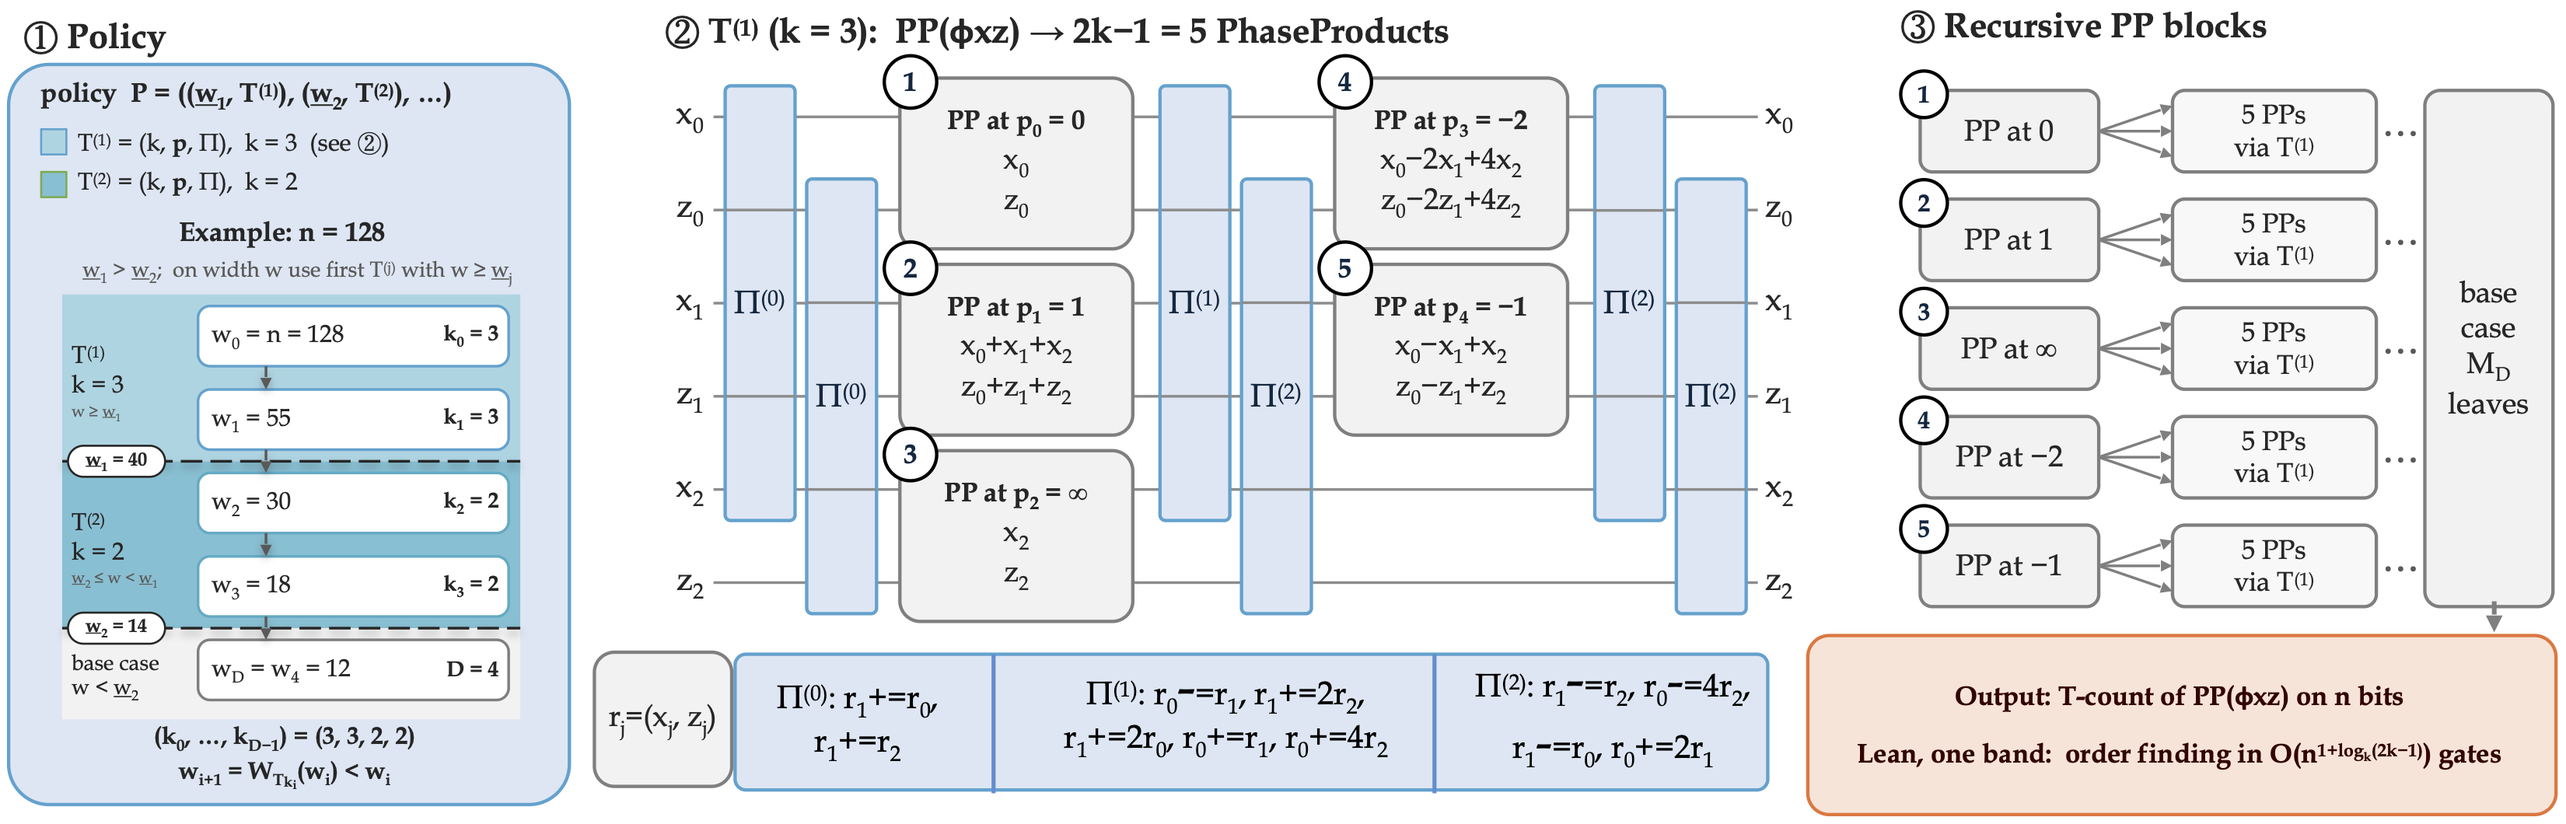
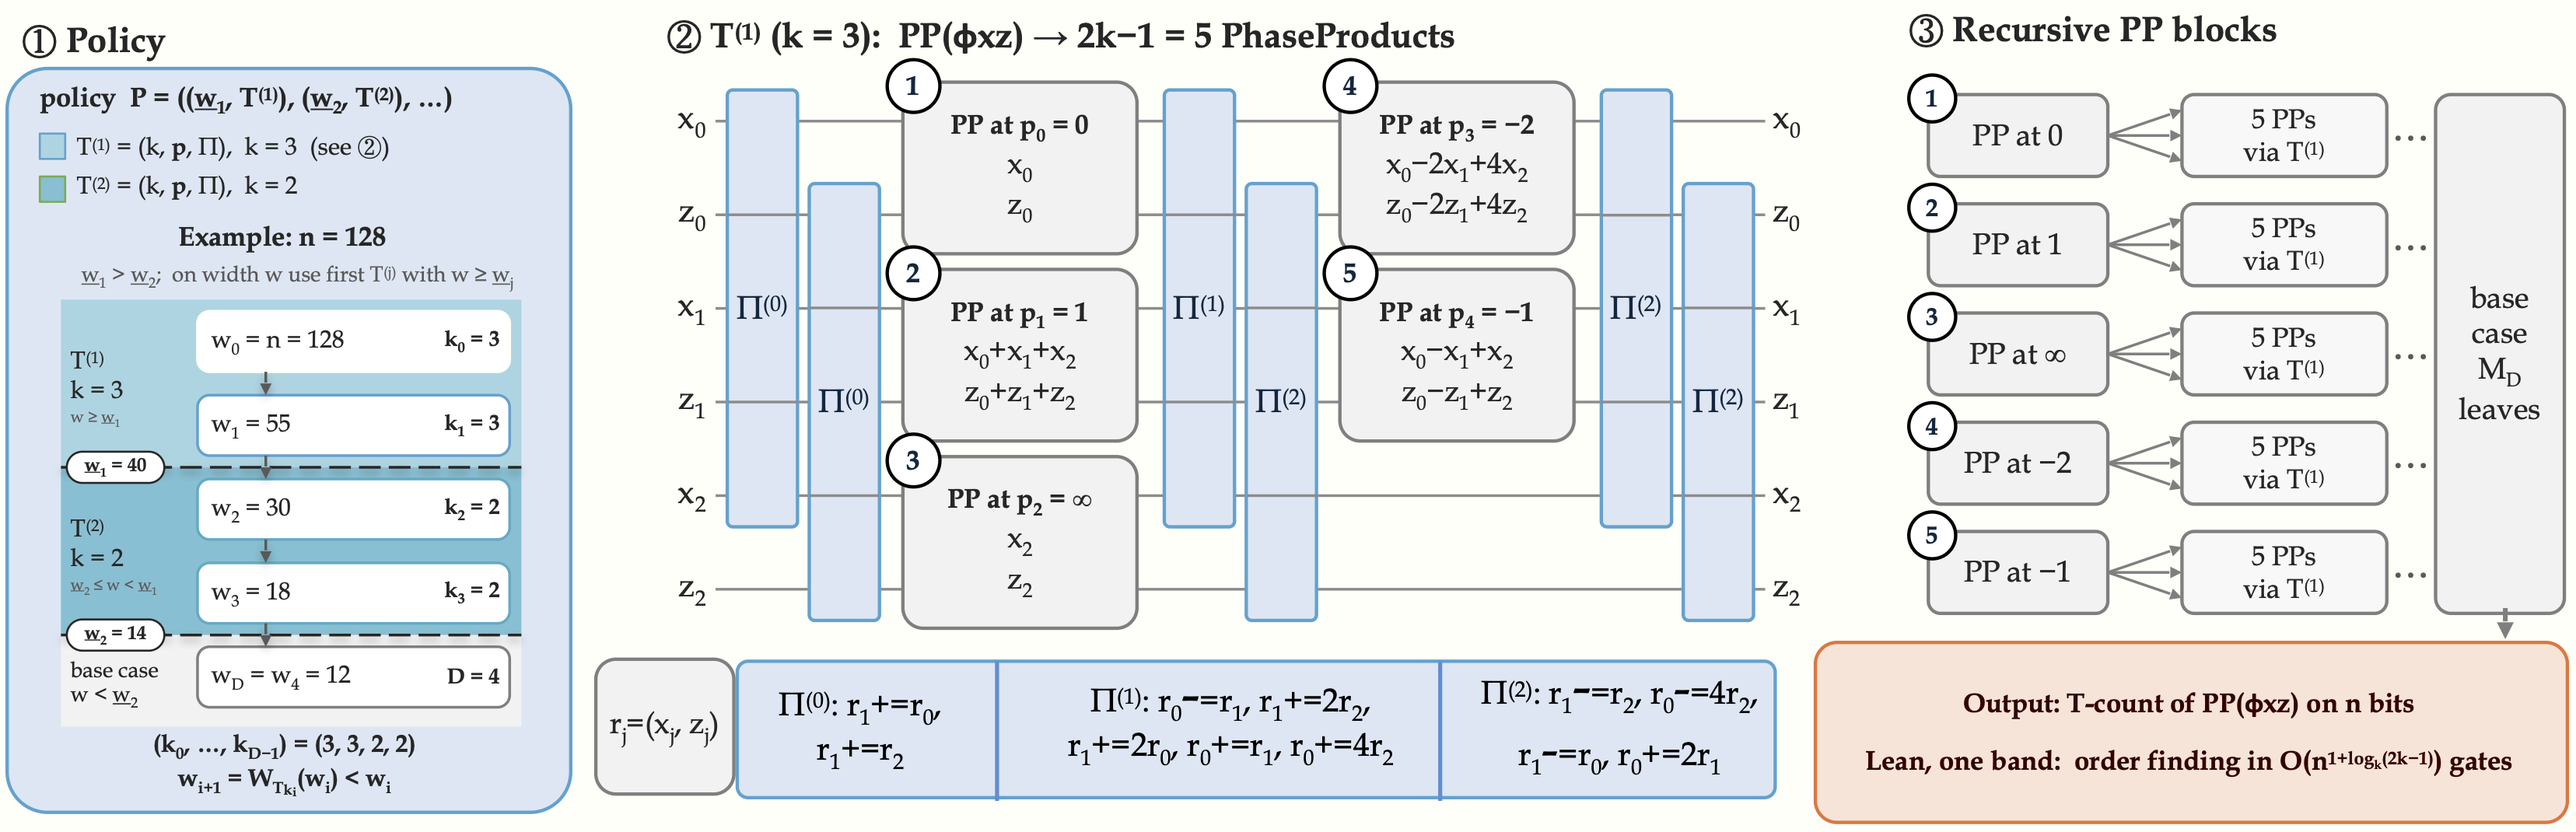
docs: <what you changed on the project page>

diff --git a/docs/index.html b/docs/index.html
@@ -198,7 +198,7 @@
           faster method and prove no lower bound; a faster method would have to exploit the arithmetic inside the tables.
         </p>
         <p>
-          <span class="newthought">What we can't prove:</span> For the problem as posed, finding the best table cannot be
+          <span class="newthought">What we have not proven:</span> For the problem as posed, finding the best table cannot be
           NP-hard unless P = NP: the best structural score grows only polynomially in <code>k</code>, so the yes-instances
           form a sparse set, and Mahaney's theorem forbids a sparse NP-hard set. Both we check in Lean. For the full
           T-count problem the same barrier holds if the optimum is polynomially bounded, a hypothesis we supply. Once the
@@ -233,9 +233,9 @@
         </p>
         <p>
           The mathematics and the design are in our paper,
-          <a href="https://github.com/VerifiedQC/ForShor#readme"><em>ForShor: Formal Verification of Shor's
-          Algorithm in Lean 4 with Verified Resource Estimation</em></a> (Suresh, Patel, Cao and Tao, 2026).
-          The paper tells the story, and the layer graph is its outline in the
+          <a href="https://github.com/VerifiedQC/ForShor#readme"><em>Formally verified harness for Shor's order
+          finding algorithm in O(n^(2+epsilon)) gate cost</em></a> (Suresh, Courtney, Tao, and Cao, 2026).
+          The paper describes the estimation procedure and results, with the layer graph its outline in the
           code.<label for="sn-gen" class="margin-toggle sidenote-number"></label><input type="checkbox" id="sn-gen" class="margin-toggle"/><span class="sidenote">The arrows are the imports between top-level folders, read from the Lean sources by <code>scripts/gen_docs_graph.py</code>. The quoted statements are verbatim copies of the declarations at the file and line shown.</span>
         </p>
         <p>
@@ -261,10 +261,10 @@
 <span class="ld">lake</span> <span class="lk">build</span>                       <span class="lc"># the whole development</span>
 <span class="ld">lake</span> <span class="lk">exe</span> <span class="lt">forshor_emit</span> <span class="ln">2</span> <span class="ln">2</span> <span class="ln">15</span> <span class="ln">0</span>   <span class="lc"># the reference circuit for (k, a, N, m), as JSON</span></code></pre>
         <p>
-          The construction is generic in its Toom-Cook table: any table that passes four decidable side
+          The construction is generic for a policy: any table or policy that passes four decidable side
           conditions inherits the correctness theorem and the gate-count bound at its own exponent. The
           README's <a href="https://github.com/VerifiedQC/ForShor#submitting-a-table">Submitting a table</a>
-          explains how such a table is stated and checked.
+          explains how such a table or policy is stated and checked.
         </p>
       </section>
 
@@ -275,15 +275,14 @@
           is in the repository.
         </p>
 <pre class="code hl" data-lang="bibtex"><code><span class="lk">@misc</span><span class="lo">{</span><span class="ld">suresh2026forshor</span><span class="lo">,</span>
-  <span class="lt">author</span>       <span class="lo">=</span> <span class="ls">{Anirudh Suresh and Joshua M. Courtney and Jai Patel and Yudong Cao and Runzhou Tao}</span><span class="lo">,</span>
-  <span class="lt">title</span>        <span class="lo">=</span> <span class="ls">{{ForShor}: Formal Verification of {Shor}'s Algorithm in {Lean~4}</span>
-<span class="ls">                  with Verified Resource Estimation},</span>
+  <span class="lt">author</span>       <span class="lo">=</span> <span class="ls">{Anirudh Suresh and Joshua M. Courtney and Runzhou Tao and Yudong Cao}</span><span class="lo">,</span>
+  <span class="lt">title</span>        <span class="lo">=</span> <span class="ls">{Formally verified harness for Shor's order finding algorithm in O(n^(2+epsilon)) gate cost},</span>
   <span class="lt">year</span>         <span class="lo">=</span> <span class="ln">{2026}</span><span class="lo">,</span>
-  <span class="lt">howpublished</span> <span class="lo">=</span> <span class="ls">{\url{https://github.com/VerifiedQC/ForShor}}</span><span class="lo">,</span>
+  <span class="lt">howpublished</span> <span class="lo">=</span> <span class="ls">{arXiv preprint}}</span><span class="lo">,</span>
   <span class="lt">note</span>         <span class="lo">=</span> <span class="ls">{Apache-2.0 licensed Lean~4 development}</span>
 <span class="lo">}</span></code></pre>
         <p class="colophon">
-          Anirudh Suresh, Jai Patel, Yudong Cao, Runzhou Tao · Apache License 2.0 ·
+          Anirudh Suresh, Joshua M. Courtney, Runzhou Tao, Yudong Cao · Apache License 2.0 ·
           <a href="https://github.com/VerifiedQC/ForShor#readme">README</a> ·
           <a href="https://github.com/VerifiedQC/ForShor/blob/main/ARCHITECTURE.md">ARCHITECTURE.md</a> ·
           <a href="https://github.com/VerifiedQC/ForShor">GitHub</a>
